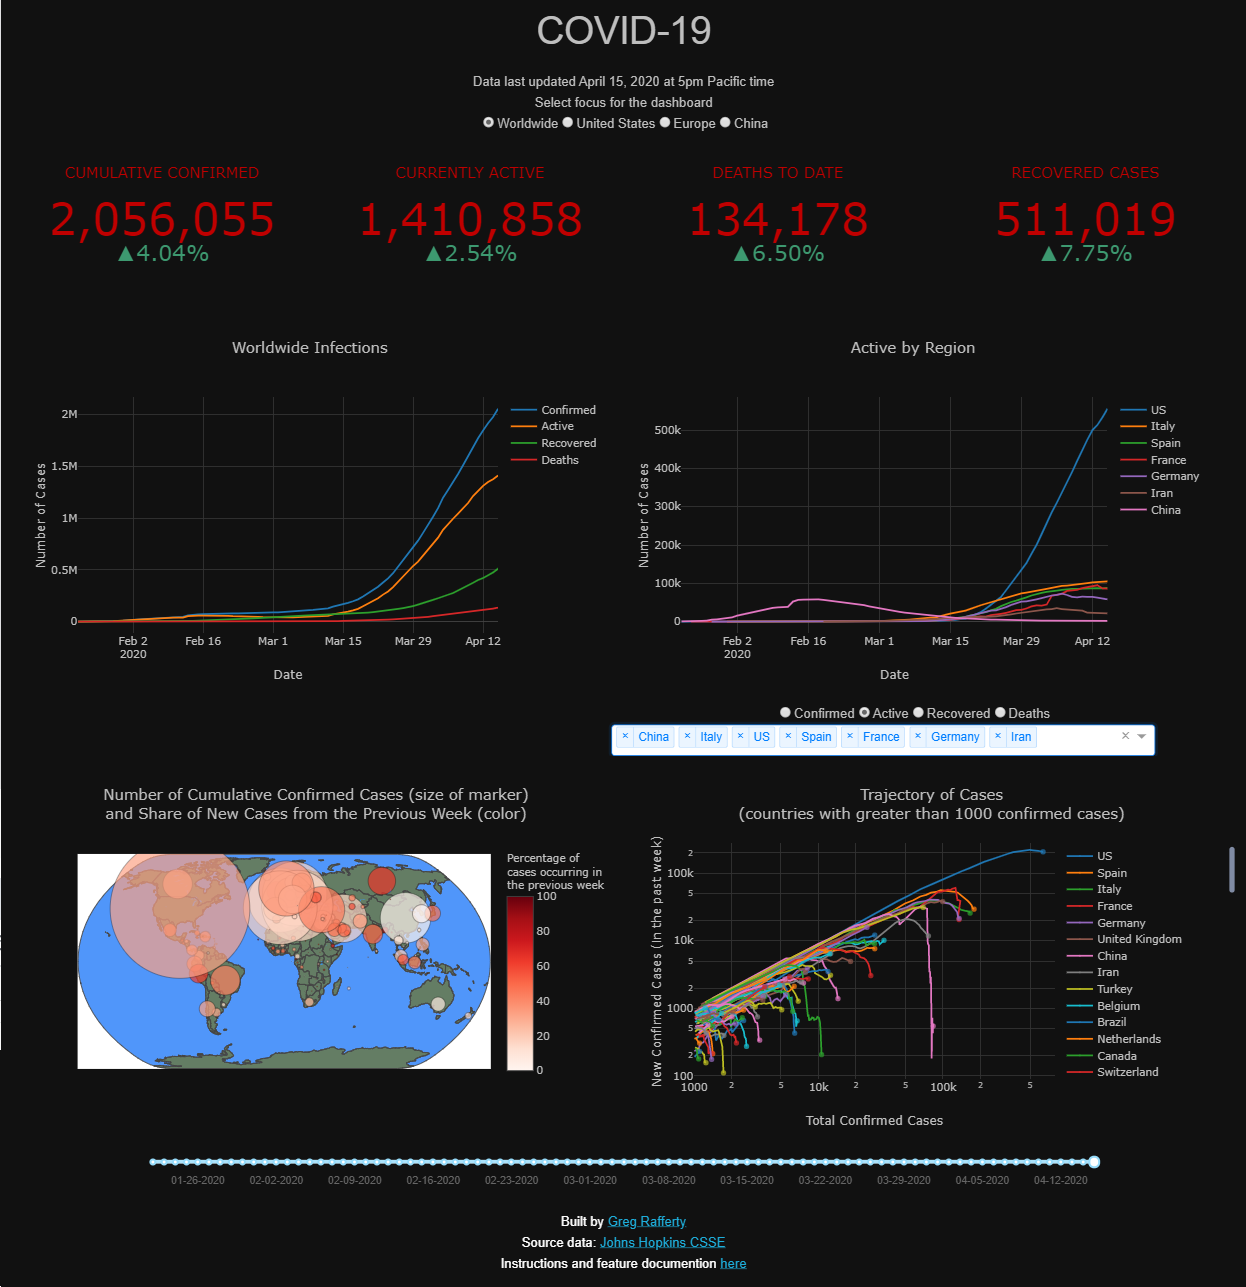
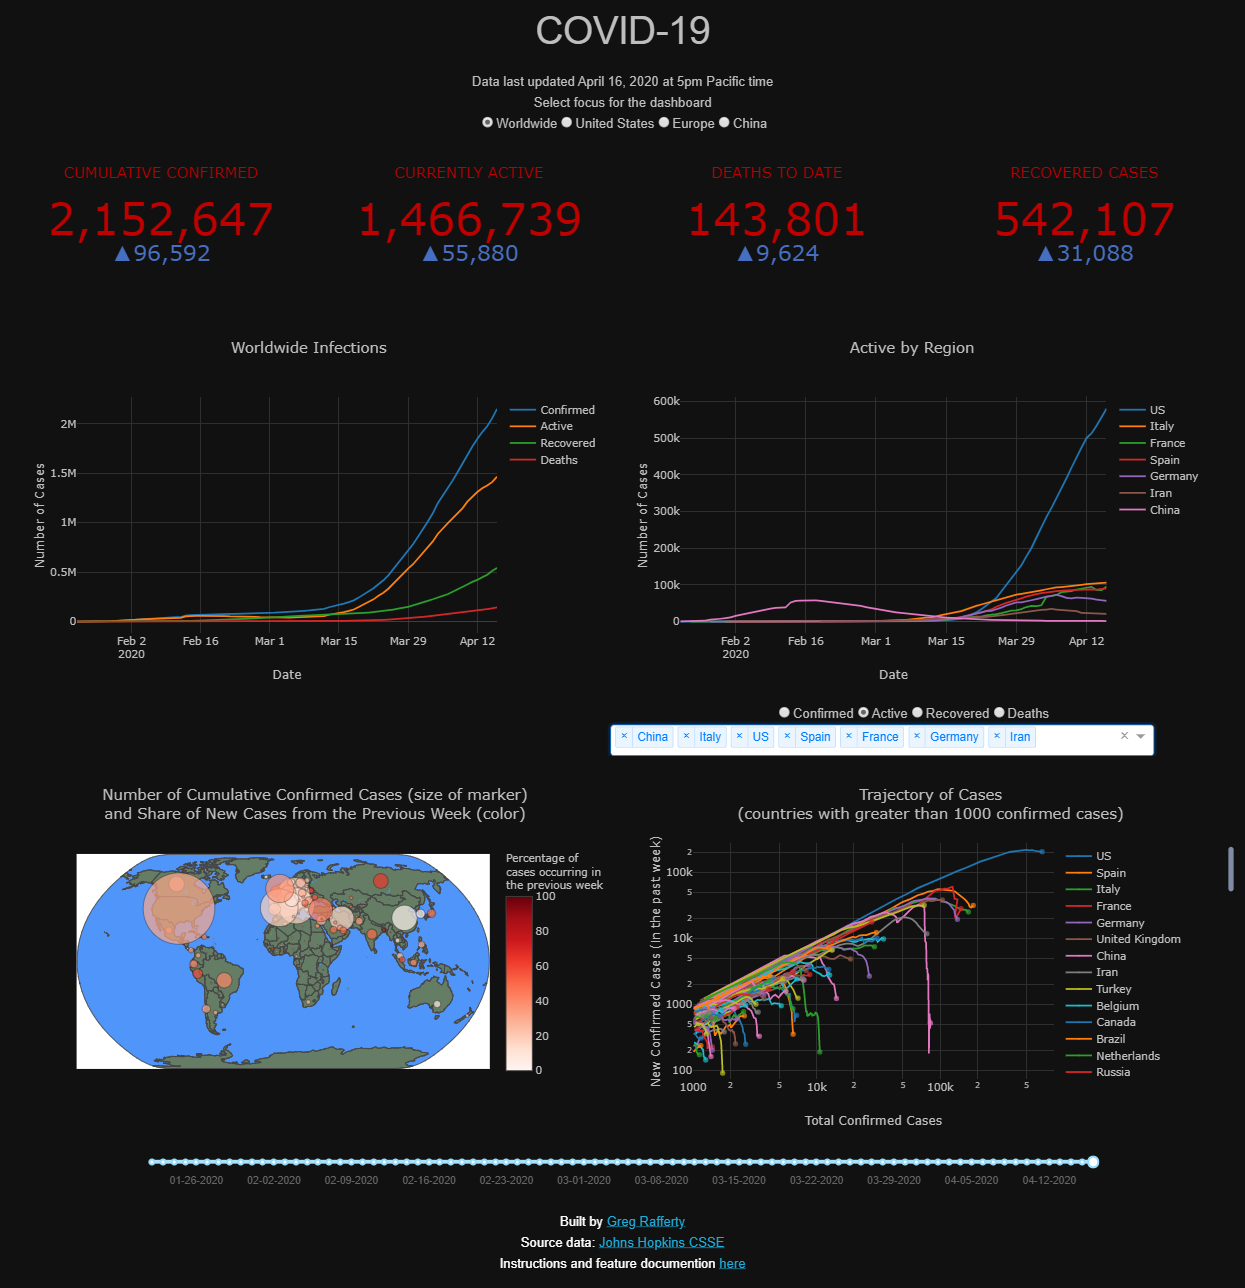
changed colors of indicator deltas

diff --git a/app.py b/app.py
@@ -5,11 +5,6 @@ from dash.dependencies import Input, Output
 
 import pandas as pd
 import numpy as np
-import glob
-import re
-from datetime import date, timedelta
-import io
-import requests
 
 import plotly.graph_objects as go
 
@@ -29,7 +24,9 @@ dash_colors = {
     'background': '#111111',
     'text': '#BEBEBE',
     'grid': '#333333',
-    'red': '#BF0000'
+    'red': '#BF0000',
+    'blue': '#466fc2',
+    'green': '#5bc246'
 }
 
 available_countries = sorted(data['Country/Region'].unique())
@@ -100,6 +97,8 @@ def confirmed(view):
                     'delta': {'reference': delta,
                               'valueformat': ',g',
                               'relative': False,
+                              'increasing': {'color': dash_colors['blue']},
+                              'decreasing': {'color': dash_colors['green']},
                               'font': {'size': 25}},
                     'number': {'valueformat': ',',
                               'font': {'size': 50}},
@@ -137,6 +136,8 @@ def active(view):
                     'delta': {'reference': delta,
                               'valueformat': ',g',
                               'relative': False,
+                              'increasing': {'color': dash_colors['blue']},
+                              'decreasing': {'color': dash_colors['green']},
                               'font': {'size': 25}},
                     'number': {'valueformat': ',',
                               'font': {'size': 50}},
@@ -174,6 +175,8 @@ def recovered(view):
                     'delta': {'reference': delta,
                               'valueformat': ',g',
                               'relative': False,
+                              'increasing': {'color': dash_colors['blue']},
+                              'decreasing': {'color': dash_colors['green']},
                               'font': {'size': 25}},
                     'number': {'valueformat': ',',
                               'font': {'size': 50}},
@@ -211,6 +214,8 @@ def deaths(view):
                     'delta': {'reference': delta,
                               'valueformat': ',g',
                               'relative': False,
+                              'increasing': {'color': dash_colors['blue']},
+                              'decreasing': {'color': dash_colors['green']},
                               'font': {'size': 25}},
                     'number': {'valueformat': ',',
                               'font': {'size': 50}},

diff --git a/README.md b/README.md
@@ -25,9 +25,9 @@ There are five main components of the dashboard: the indicators, the infections 
 
 ![indicators](images/indicators.png)
 
-There are four indicators, each consisting of the current value for the indicator, in red, and a percent change from yesterday, in green.
+There are four indicators, each consisting of the current value for the indicator, in red, and the change from yesterday, in blue for increasing values and green for decreasing.
 
-- **CUMULATIVE CONFIRMED** is the running total of all cases tested and confirmed in the selected region.
+- **CUMULATIVE CONFIRMED** is the running total of all cases tested and confirmed in the selected region. *(Note: This value is highly dependent upon the testing rate and almost certainly is an underestimate of actual infections.)*
 - **CURRENTLY ACTIVE** measures only the cases active today.  
 It is calculated as `ACTIVE = CONFIRMED - DEATHS - RECOVERED`
 - **DEATHS TO DATE** measures the running total of all COVID-19-related deaths
@@ -43,9 +43,9 @@ The infections chart displays the totals for `CONFIRMED`, `ACTIVE`, `RECOVERED`,
 
 ![cases](images/cases.png)
 
-The cases  graphic displays a line chart by sub-region of either `CONFIRMED`, `ACTIVE`, `RECOVERED`, or `DEATHS`, selectable with the radio buttons below the chart. If the selected region is `Worldwide` or `Europe`, the sub-regions displayed are countries. If the selected region is `United Sates`, the sub-regions are the states. On hover, the exact count of the selected metric is displayed for the sub-region the mouse is over.
+The cases  graphic displays a line chart by sub-region of either `CONFIRMED`, `ACTIVE`, `RECOVERED`, or `DEATHS`, selectable with the radio buttons below the chart. If the selected region is `Worldwide` or `Europe`, the sub-regions displayed are countries. If the selected region is `United Sates` or `China`, the sub-regions are the states or provinces. On hover, the exact count of the selected metric is displayed for the sub-region the mouse is over.
 
-By default, it displays sub-regions which were of particular interest when this dashboard was created. The dropdown-bar on the bottom allows you to select different sub-regions for display, either countries for the `Worldwide` and `Europe` focus or states for the `United States` focus. Typing in the dropdown-bar will allow you to search for sub-regions.
+By default, it displays sub-regions which were of particular interest when this dashboard was created. The dropdown-bar on the bottom allows you to select different sub-regions for display, either countries for the `Worldwide` or `Europe` focus or states/provinces for the `United States` or `China` focus. Typing in the dropdown-bar will allow you to search for sub-regions.
 
 As with the other two line charts on this dashboard, clicking on an item in the legend will temporarily remove that item from the chart. Clicking again will add it back. Double-clicking an item will remove all other items and isolate that singular item on the chart. Double-clicking again will add back all items.
 
@@ -55,10 +55,10 @@ As with the other two line charts on this dashboard, clicking on an item in the 
 
 The infection map features a circular marker over each sub-region. The size of the marker is relative to the square root of the `CONFIRMED` cases within that sub-region and the color indicates the percentage of those cases which were newly confirmed within the previous 7 days. Essentially, the size of the marker is a measure of how many people have caught the virus within that sub-region since the outbreak began and the color is a measure of how active the virus currently is, with dark red indicating the virus is actively spreading and white indicating that it is more under control. Hovering over a marker will reveal the country name and the exact value of the two measures. As with the other charts, the map is zoomable and dragable. Below the chart is a slider bar controlling the date at which the map displays data. By default it is set for the most recent date available but by dragging to the left you can see the spread of the pandemic through time.
 
-If `United States` is selected as the focus of the dashboard, each state will have its own marker for `CONFIRMED` cases, only up until March 22nd. At this point, John Hopkins began to provide data aggregated to the county-level, and I have followed suit from this date onward. This provides a much more informative and granular view of the data, however the cost is dashboard performance. Unfortunately, rendering this 60x-increase in markers slows the dashboard down but I accepted this tradeoff for the additional insight provided.
+If `United States` is selected as the focus of the dashboard, each state will have its own marker for `CONFIRMED` cases, only up until March 22nd. At this point, John Hopkins University began to provide data aggregated to the county-level, and I have followed suit from this date onward. This provides a much more informative and granular view of the data, however the cost is dashboard performance. Unfortunately, rendering this 60x-increase in markers slows the dashboard down but I accepted this tradeoff for the additional insight provided.
 
 ### Trajectory
 
 ![trajectory](images/trajectory.png)
 
-This chart displays the trajectory of the pandemic within sub-regions. The x-axis displays the cumulative confirmed count by sub-region and the y-axis displays the count of cases which were confirmed in the previous week. With this visualization, once a sub-region has managed to control the pandemic to some extent, the line should suddenly drop down, as China (green) and South Korea (orange) have in the image. Although `date` is not on either of the axes, the data is still plotted by date; hovering over any line will display the date on which that data point was recorded. Additionally, the date slider on the bottom also controls this chart; so along with the map, the change throughout time of the trajectories can be inspected.
+This chart displays the trajectory of the pandemic within sub-regions. The x-axis displays the cumulative confirmed count by sub-region and the y-axis displays the count of cases which were confirmed in the previous week. With this visualization, once a sub-region has managed to control the pandemic to some extent, the line should suddenly drop down, as China (green) and South Korea (orange) have in the image. Although `date` is not on either of the axes, the data is still plotted by date; hovering over any line will display the date on which that data point was recorded. Additionally, the date slider on the bottom also controls this chart; so along with the map, the progress throughout time of the trajectories can be inspected.
